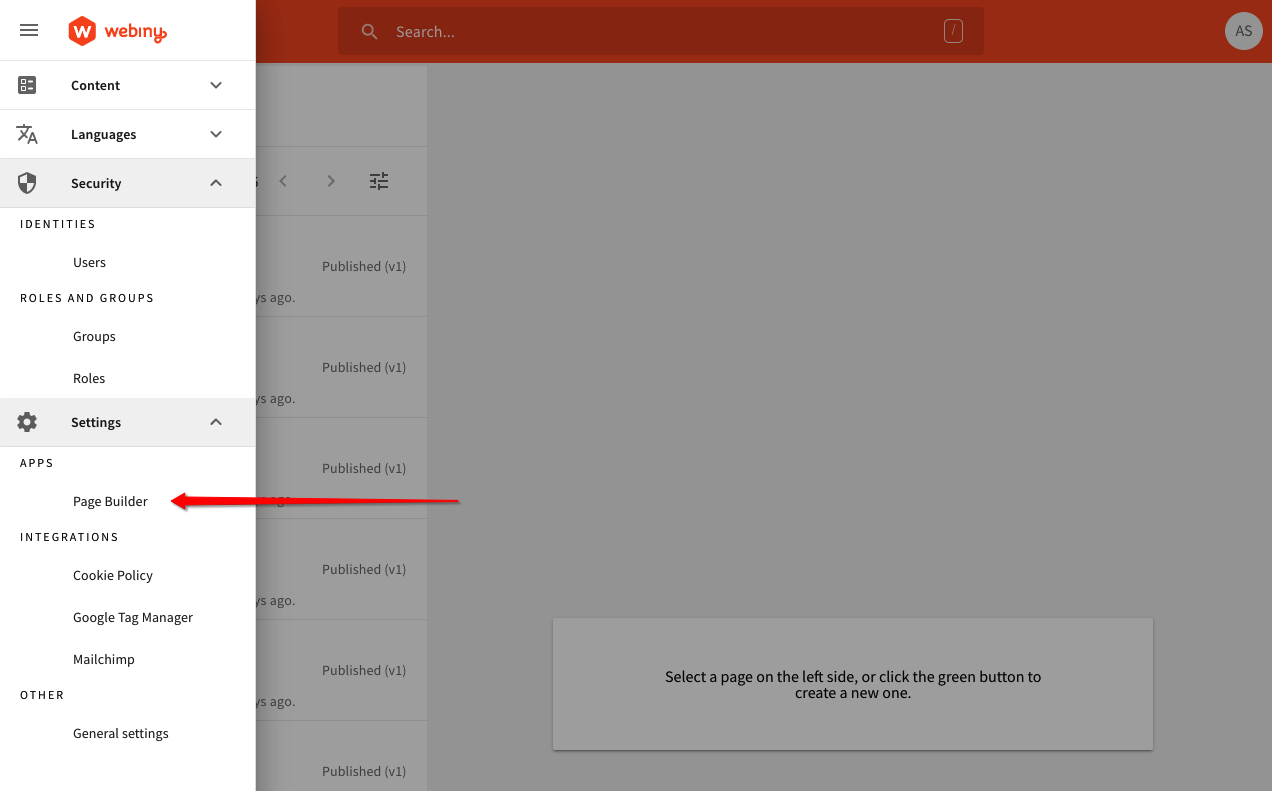
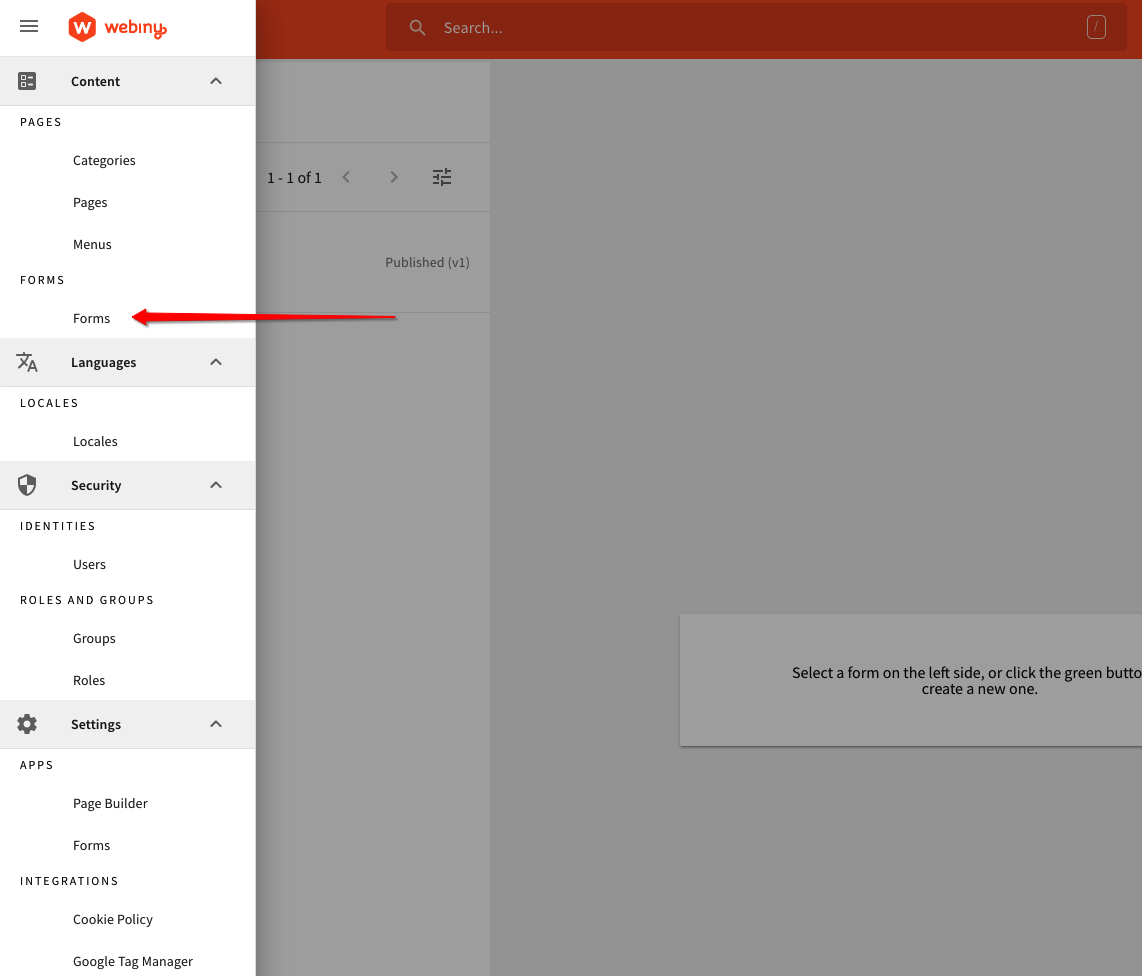
wip: forms docs

diff --git a/website/sidebars.js b/website/sidebars.js
@@ -1,8 +1,6 @@
 module.exports = {
-    "docs": {
-        "Webiny": [
-            "webiny/introduction"
-        ],
+    docs: {
+        Webiny: ["webiny/introduction"],
         "Get Started": [
             "get-started/quick-start",
             "get-started/going-live",
@@ -16,27 +14,55 @@ module.exports = {
             "deep-dive/plugins-crash-course"
         ],
         "API Development": [
-            "coming-soon",
+            "coming-soon"
             /*"api-overview",
              "api-schema-plugin",
              "api-schema-test",*/
-    ],
-    'App Development': ['coming-soon'],
-    /*Plugins: [
+        ],
+        "App Development": ["coming-soon"],
+        /*Plugins: [
       'plugins/adding-your-plugin',
       // add your plugin page below, make sure it's ordered alphabetically
     ],*/
-    Other: [
-      {
-        type: 'category',
-        label: 'FAQ',
-        items: ['other/faq/how-is-webiny-serverless'],
-      },
-      {
-        type: 'link',
-        label: 'How To Contribute',
-        href: 'https://github.com/webiny/webiny-js/blob/master/CONTRIBUTING.md',
-      },
-    ],
-  },
+        "Webiny Apps": [
+            {
+                type: "category",
+                label: "Admin",
+                items: ["webiny-apps/admin/introduction"]
+            },
+            {
+                type: "category",
+                label: "File Manager",
+                items: ["webiny-apps/file-manager/introduction"]
+            },
+            {
+                type: "category",
+                label: "Form Builder",
+                items: [
+                    "webiny-apps/form-builder/introduction",
+                    "webiny-apps/form-builder/getting-started"
+                ]
+            },
+            {
+                type: "category",
+                label: "Page Builder",
+                items: [
+                    "webiny-apps/page-builder/introduction",
+                    "webiny-apps/page-builder/getting-started"
+                ]
+            }
+        ],
+        Other: [
+            {
+                type: "category",
+                label: "FAQ",
+                items: ["other/faq/how-is-webiny-serverless"]
+            },
+            {
+                type: "link",
+                label: "How To Contribute",
+                href: "https://github.com/webiny/webiny-js/blob/master/CONTRIBUTING.md"
+            }
+        ]
+    }
 };

diff --git a/docs/webiny-apps/form-builder/getting-started.md b/docs/webiny-apps/form-builder/getting-started.md
@@ -4,23 +4,24 @@ title: Getting Started
 sidebar_label: Getting Started
 ---
 
-Form Builder is included by default in the initial Webiny installation,
+In this section we will cover everything you need to know in order to get started with the Form Builder app. 
+
+Form Builder is included by default in every Webiny installation,
 so no additional installation steps are required. Just log in into 
-the Webiny Admin, and in the left sidebar, choose Form Builder.
+the Webiny Admin, and from the menu in the left sidebar, click on the Form Builder.
 
 ![Form Builder](/assets/webiny-apps/form-builder/getting-started/open-via-sidebar.png)
 
-Here you will see a list of all previously created forms. And by 
-selecting a form from the list, you can view its stats, form 
-submissions, edit the form if you need to, and more.
+Once clicked, the first thing you'll see is the list of all previously created forms. 
+As by default there aren't any, let's go ahead and create our first form. Click on the "plus"
+icon in the bottom right corner. You will be prompted to enter a form name, after which you'll be automatically redirected to the form builder. 
 
-Let's start by creating a brand new form by clicking on the "plus"
-icon in the bottom right corner. You will be prompted to enter a form name.
 
-Once you do that, you will be redirected to the form builder, from where
-you can start creating your new form.
+There are a couple of important UI sections in the Form Builder:
 
-There are a couple of important UI sections in the form builder. 
+![Form Builder](/assets/webiny-apps/form-builder/getting-started/form-builder-ui.png)
+
+1. 
 
 Obviously, every form consists of form fields, so in order to add them, 
 you can drag and dropping fields from the left side bar to the

diff --git a/docs/webiny-apps/form-builder/introduction.md b/docs/webiny-apps/form-builder/introduction.md
@@ -4,13 +4,19 @@ title: Introduction
 sidebar_label: Introduction
 ---
 
-Form Builder is a Webiny app that lets you create dynamic and rich forms 
+Form Builder is a Webiny app that lets you create dynamic and rich forms
 with ease, with just a few clicks from a simple UI inside of the Webiny
 Admin.
 
-Once you create your first form, you can easily show it on your web site
-using a simple React component or even better, embed it any way you 
-like into your pages built with [Webiny Page Builder]().
+![Form Builder](/assets/webiny-apps/form-builder/introduction/form-builder.png)
 
-Finally, you can also review all of received form submissions, 
-check out conversion rates, create CSV exports, and more.
+Once created, you can easily show your forms on your web site
+using a provided React component or even better, embed the form any way you
+like into your pages built with [Webiny Page Builder](/docs/webiny-apps/page-builder/introduction).
+
+![Form Builder](/assets/webiny-apps/form-builder/introduction/page-builder-embed.png)
+
+Last but not least, the app also lets you review all of the received form submissions,
+check out conversion rates, create CSV exports, define additional behaviour on successful form submissions via triggers, and more.
+
+In the following section we will cover everything you need to know in order to get started with the Form Builder. 
